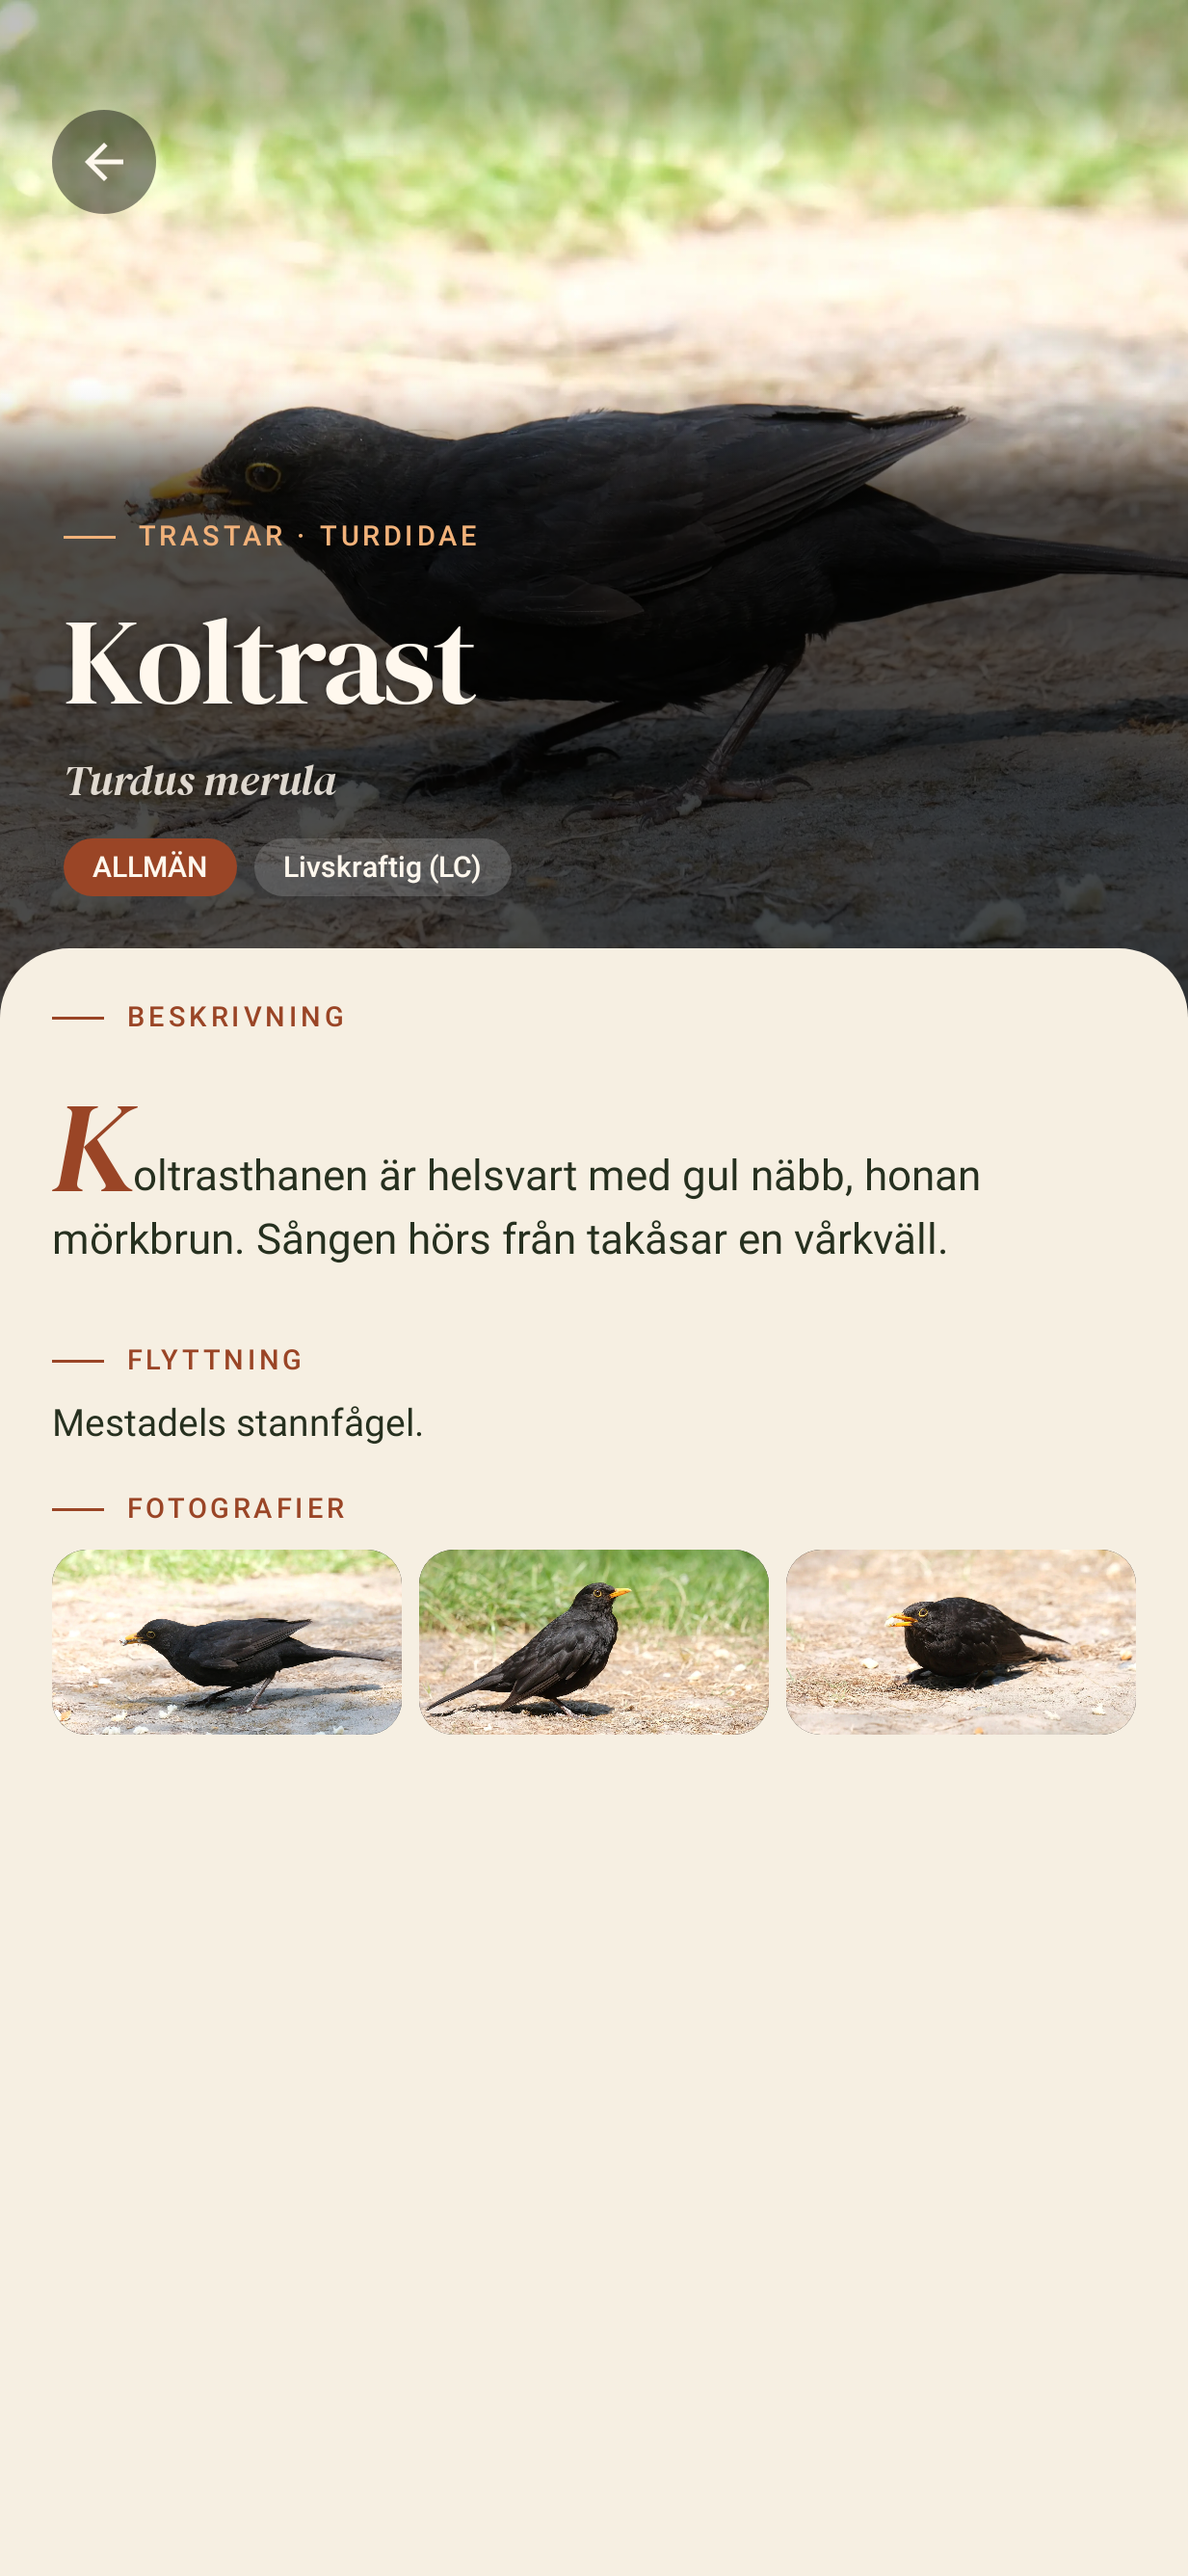
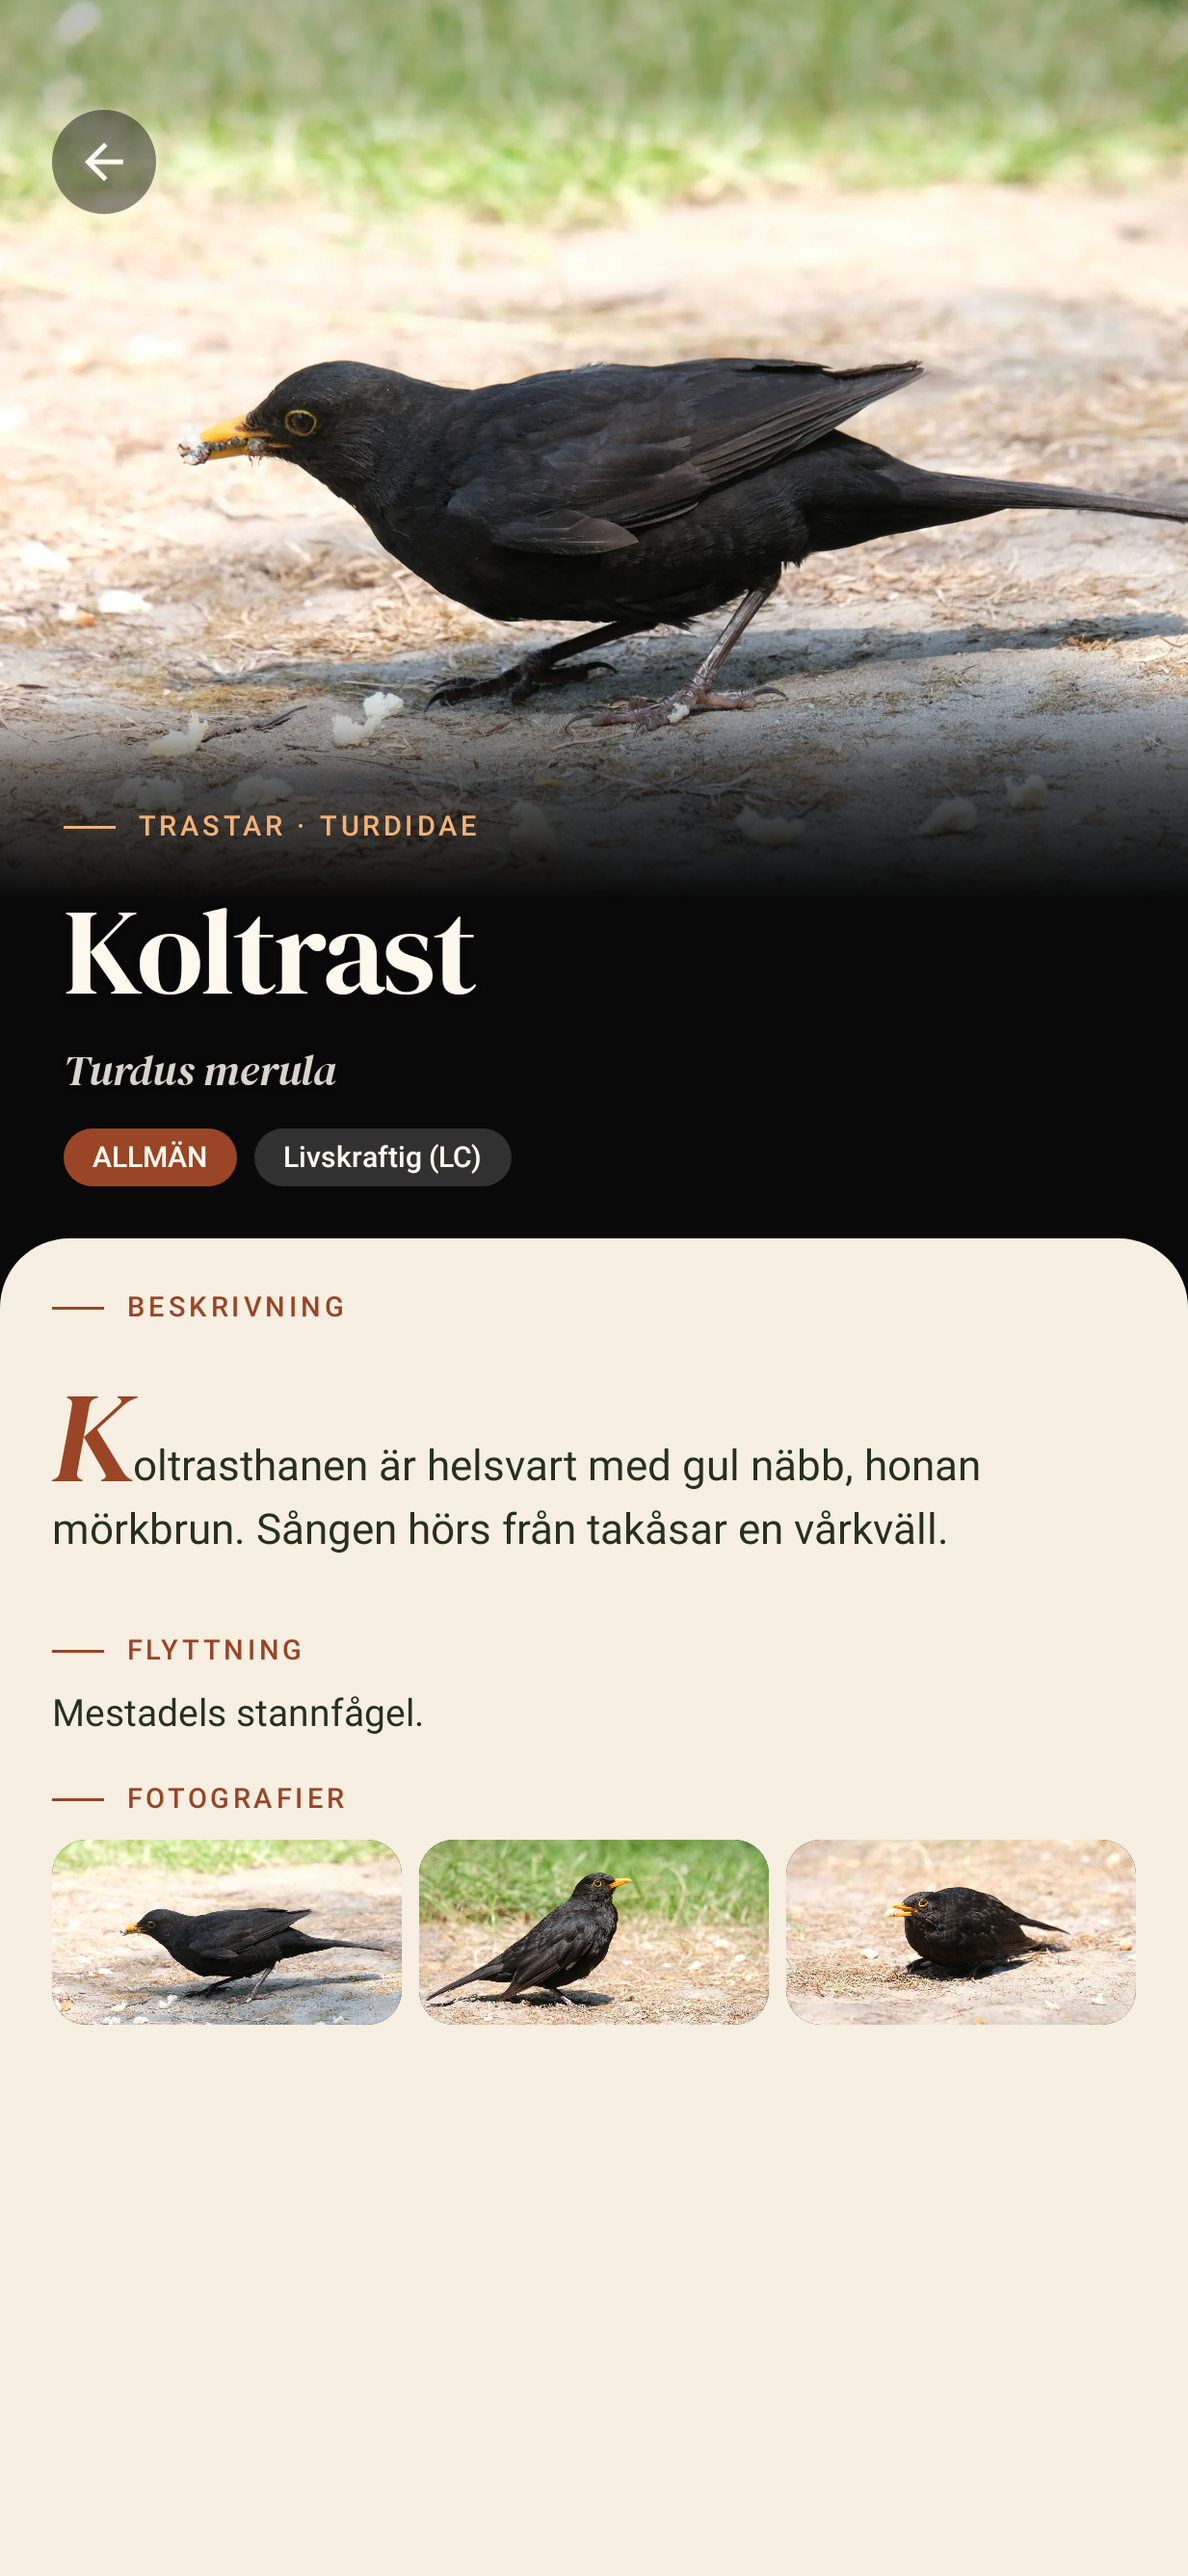
fix(ui): på Match och artprofilen står namnet under fågeln, inte över den
Granskningen av ca0a2741: textblocket täckte ~55 % av heron, så fågelns
kropp låg fortfarande under den svarta 0,70-scrimmen (rödhakens bröst
dämpat). Nytt opt-in i PhotoHero, textBelowPhoto: fotot behåller sin
höjd överst (plus statusraden) och textblocket börjar under det och
överlappar bara fotots nedersta TEXT_OVER_PHOTO = 32 dp, där fotot tonar
ut (maskas till genomskinligt, ingen färg läggs på) mot den neutrala
bakgrunden. Fågeln, oftast mitt i bilden, hamnar då aldrig under texten;
heron växer till foto + text. Utan foto ändras ingenting.

Artprofilen: fotot 280 dp (ett 3:2-foto är ~274 dp på 411 dp bredd),
var heron 320. Match: fotot 260 dp, var heron 340; 20 dp mindre så att
Spara-knappen ligger kvar högt på korta telefoner (mitten ~618 dp i
riggen, var ~553). Identifiera (Dagens fågel) är orörd. Typografin och
textscrimmen är oförändrade, så PhotoHeroContrastTest gäller som förut
(texten står antingen på fotot under scrimmen eller på den mörkare
bakgrunden). PhotoHeroLayoutTest (Robolectric, körs i grinden) visar att
fotot fyller hela heron som standard, att bara fotots 32 dp nedersta kant
ligger under texten med textBelowPhoto, och att flaggan inget gör utan foto.

diff --git a/composeApp/src/commonMain/kotlin/se/birdy/app/ui/components/PhotoHero.kt b/composeApp/src/commonMain/kotlin/se/birdy/app/ui/components/PhotoHero.kt
@@ -34,9 +34,12 @@ import androidx.compose.ui.draw.drawBehind
 import androidx.compose.ui.draw.drawWithCache
 import androidx.compose.ui.geometry.Offset
 import androidx.compose.ui.geometry.Size
+import androidx.compose.ui.graphics.BlendMode
 import androidx.compose.ui.graphics.Brush
 import androidx.compose.ui.graphics.Color
+import androidx.compose.ui.graphics.CompositingStrategy
 import androidx.compose.ui.graphics.Shadow
+import androidx.compose.ui.graphics.graphicsLayer
 import androidx.compose.ui.layout.boundsInRoot
 import androidx.compose.ui.layout.layout
 import androidx.compose.ui.layout.onGloballyPositioned
@@ -98,6 +101,12 @@ import se.birdy.app.ui.theme.rememberDmSerifDisplay
  * @param bottomPadding extra space under the text, e.g. for a [PaperSheet] overlapping it —
  *   when this hero is followed by one, use `PaperSheetOverlap + 18.dp` so the sheet's rounded
  *   top doesn't sit flush against the last line of text.
+ * @param textBelowPhoto false (default) = the photo fills the whole hero behind the text (the
+ *   Identify tab's daily bird). true (Match, species profile; 2026-10-06, Albin: the species
+ *   must be clearly visible) = the photo keeps [height] at the top (plus the status bar) and the
+ *   text block starts under it, overlapping only the photo's bottom [TEXT_OVER_PHOTO], where the
+ *   photo fades out into the neutral backdrop. The bird, usually in the middle of the frame, is
+ *   then never under the text; the hero grows to photo + text. No effect without a photo.
  * @param bottomContent extra content under the meta row, drawn over the same text-following
  *   scrim as the rest of the text block — it must be light-on-dark, like the rest of this
  *   header. A translucent LIGHT fill (e.g. a glass pill in `White.copy(alpha = 0.16f)`)
@@ -118,6 +127,7 @@ fun PhotoHero(
     height: Dp = 300.dp,
     bottomPadding: Dp = 18.dp,
     drawBehindStatusBar: Boolean = false,
+    textBelowPhoto: Boolean = false,
     image: (@Composable BoxScope.() -> Unit)? = null,
     topBar: (@Composable BoxScope.() -> Unit)? = null,
     bottomContent: (@Composable ColumnScope.() -> Unit)? = null,
@@ -125,19 +135,21 @@ fun PhotoHero(
     val serif = rememberDmSerifDisplay()
     val statusBarTop = WindowInsets.statusBars.asPaddingValues().calculateTopPadding()
     val statusBarTracking = rememberStatusBarTracking(enabled = drawBehindStatusBar)
+    // Behind the status bar the photo grows by its height, so the part below it keeps `height`.
+    val photoHeight = if (drawBehindStatusBar) height + statusBarTop else height
+    val photoAbove = textBelowPhoto && image != null
     Box(
         modifier =
             modifier
                 .fillMaxWidth()
-                // Behind the status bar the photo grows by its height, so the part below it keeps `height`.
-                .heightIn(min = if (drawBehindStatusBar) height + statusBarTop else height)
+                .heightIn(min = photoHeight)
                 .then(statusBarTracking)
                 .heroBackdrop(hasPhoto = image != null),
     ) {
         // A caller's image uses fillMaxSize(), which can't size this (possibly taller
-        // than `height`) Box by itself — matchParentSize() defers them until this Box's size is
-        // resolved from the Column below, then stretches them to match it.
-        Box(Modifier.matchParentSize()) {
+        // than `height`) Box by itself — matchParentSize() defers it until this Box's size is
+        // resolved from the Column below, then stretches it to match (see photoArea).
+        Box(photoArea(photoAbove, photoHeight)) {
             if (image != null) {
                 image()
                 if (drawBehindStatusBar) StatusBarScrim(statusBarTop)
@@ -147,6 +159,8 @@ fun PhotoHero(
             modifier =
                 Modifier
                     .align(Alignment.BottomStart)
+                    // Text below the photo: start where only the photo's faded edge is left.
+                    .padding(top = if (photoAbove) photoHeight - TEXT_OVER_PHOTO else 0.dp)
                     .fillMaxWidth()
                     .drawTextFollowingScrim(enabled = image != null) // before padding: see its KDoc.
                     .padding(start = 22.dp, end = 22.dp, bottom = bottomPadding),
@@ -248,6 +262,43 @@ internal const val TEXT_SCRIM_ALPHA = 0.70f
 private const val TEXT_SCRIM_FADE_STEPS = 8
 
 private fun smoothstep(t: Float): Float = t * t * (1 + 2 * (1 - t))
+
+// How much of the photo's bottom edge the text block may overlap when the text sits below the
+// photo (PhotoHero's textBelowPhoto), and how long the photo takes to fade out into the backdrop
+// there, so the photo has no hard bottom edge behind the kicker.
+internal val TEXT_OVER_PHOTO = 32.dp
+
+/**
+ * Where the photo is drawn: behind the whole hero, or (photoAbove) at the top in its own
+ * [height], fading out over its last [TEXT_OVER_PHOTO] into the backdrop. The fade only lowers
+ * the photo's own opacity, so what the text sits on there is the neutral backdrop, never a tint.
+ */
+private fun BoxScope.photoArea(
+    photoAbove: Boolean,
+    height: Dp,
+): Modifier =
+    if (photoAbove) {
+        Modifier.fillMaxWidth().height(height).fadeOutBottom(TEXT_OVER_PHOTO)
+    } else {
+        Modifier.matchParentSize()
+    }
+
+private fun Modifier.fadeOutBottom(fade: Dp): Modifier =
+    graphicsLayer { compositingStrategy = CompositingStrategy.Offscreen }
+        .drawWithCache {
+            val fadePx = fade.toPx()
+            val mask =
+                Brush.verticalGradient(
+                    0f to Color.Black,
+                    1f to Color.Transparent,
+                    startY = size.height - fadePx,
+                    endY = size.height,
+                )
+            onDrawWithContent {
+                drawContent()
+                drawRect(brush = mask, blendMode = BlendMode.DstIn)
+            }
+        }
 
 /**
  * What shows behind the photo: a neutral [PhotoLoading] gray while a photo loads (never a green

diff --git a/composeApp/src/androidUnitTest/kotlin/se/birdy/app/ui/components/PhotoHeroLayoutTest.kt b/composeApp/src/androidUnitTest/kotlin/se/birdy/app/ui/components/PhotoHeroLayoutTest.kt
@@ -1,0 +1,114 @@
+package se.birdy.app.ui.components
+
+import androidx.compose.foundation.layout.Box
+import androidx.compose.foundation.layout.Column
+import androidx.compose.foundation.layout.fillMaxSize
+import androidx.compose.runtime.Composable
+import androidx.compose.ui.Modifier
+import androidx.compose.ui.platform.testTag
+import androidx.compose.ui.test.getUnclippedBoundsInRoot
+import androidx.compose.ui.test.junit4.createComposeRule
+import androidx.compose.ui.test.onNodeWithTag
+import androidx.compose.ui.test.onNodeWithText
+import androidx.compose.ui.unit.Dp
+import androidx.compose.ui.unit.dp
+import org.junit.Before
+import org.junit.Rule
+import org.junit.Test
+import org.junit.runner.RunWith
+import org.robolectric.RobolectricTestRunner
+import org.robolectric.annotation.Config
+import se.birdy.app.testing.attachComposeResourcesContext
+import se.birdy.app.ui.theme.BirdyTheme
+import kotlin.math.abs
+import kotlin.test.assertTrue
+
+/**
+ * Where the photo sits relative to the text block in [PhotoHero] (2026-10-06, Albin: the species
+ * must be clearly visible). By default the photo fills the whole hero behind the text (the
+ * Identify tab's daily bird). With `textBelowPhoto` (Match, species profile) the photo keeps its
+ * own [PhotoHero] `height` at the top and the text block starts under it, overlapping only the
+ * photo's faded bottom [TEXT_OVER_PHOTO], so the bird in the middle of the frame is never under
+ * the text.
+ */
+@RunWith(RobolectricTestRunner::class)
+@Config(sdk = [35], qualifiers = "sv-w411dp-h891dp-xxhdpi")
+class PhotoHeroLayoutTest {
+    @get:Rule
+    val compose = createComposeRule()
+
+    @Before
+    fun setUp() {
+        attachComposeResourcesContext()
+    }
+
+    @Composable
+    private fun Hero(
+        tag: String,
+        kicker: String,
+        textBelowPhoto: Boolean,
+        withPhoto: Boolean,
+    ) = PhotoHero(
+        kicker = kicker,
+        title = "Talgoxe",
+        latinName = "Parus major",
+        height = 280.dp,
+        bottomPadding = PaperSheetOverlap + 18.dp,
+        textBelowPhoto = textBelowPhoto,
+        modifier = Modifier.testTag(tag),
+        image =
+            if (withPhoto) {
+                { Box(Modifier.fillMaxSize().testTag("$tag-photo")) }
+            } else {
+                null
+            },
+    )
+
+    private fun show(content: @Composable () -> Unit) {
+        compose.setContent { BirdyTheme { Column { content() } } }
+        compose.waitForIdle()
+    }
+
+    private fun assertClose(
+        expected: Dp,
+        actual: Dp,
+        what: String,
+    ) = assertTrue(abs((expected - actual).value) <= 1f, "$what: expected $expected, was $actual")
+
+    @Test
+    fun `by default the photo fills the whole hero behind the text`() {
+        show { Hero("hero", "Mesar", textBelowPhoto = false, withPhoto = true) }
+        val hero = compose.onNodeWithTag("hero").getUnclippedBoundsInRoot()
+        val photo = compose.onNodeWithTag("hero-photo").getUnclippedBoundsInRoot()
+        assertClose(hero.top, photo.top, "photo top")
+        assertClose(hero.bottom, photo.bottom, "photo bottom")
+    }
+
+    @Test
+    fun `with the text below the photo only the faded bottom edge of the photo is under the text`() {
+        show { Hero("hero", "Mesar", textBelowPhoto = true, withPhoto = true) }
+        val hero = compose.onNodeWithTag("hero").getUnclippedBoundsInRoot()
+        val photo = compose.onNodeWithTag("hero-photo").getUnclippedBoundsInRoot()
+        val kicker = compose.onNodeWithText("Mesar", ignoreCase = true).getUnclippedBoundsInRoot()
+        assertClose(280.dp, photo.bottom - photo.top, "photo height")
+        assertTrue(
+            kicker.top >= photo.bottom - TEXT_OVER_PHOTO - 1.dp,
+            "the text starts ${photo.bottom - kicker.top} above the photo's bottom, more than $TEXT_OVER_PHOTO",
+        )
+        assertTrue(hero.bottom > photo.bottom, "the text block should extend the hero below the photo")
+    }
+
+    @Test
+    fun `without a photo the text-below option changes nothing`() {
+        show {
+            Hero("plain", "Mesar", textBelowPhoto = false, withPhoto = false)
+            Hero("below", "Trastar", textBelowPhoto = true, withPhoto = false)
+        }
+        val plain = compose.onNodeWithTag("plain").getUnclippedBoundsInRoot()
+        val below = compose.onNodeWithTag("below").getUnclippedBoundsInRoot()
+        val kickerPlain = compose.onNodeWithText("Mesar", ignoreCase = true).getUnclippedBoundsInRoot()
+        val kickerBelow = compose.onNodeWithText("Trastar", ignoreCase = true).getUnclippedBoundsInRoot()
+        assertClose(plain.bottom - plain.top, below.bottom - below.top, "hero height")
+        assertClose(kickerPlain.top - plain.top, kickerBelow.top - below.top, "kicker offset in the hero")
+    }
+}

diff --git a/composeApp/src/commonMain/kotlin/se/birdy/app/ui/match/MatchView.kt b/composeApp/src/commonMain/kotlin/se/birdy/app/ui/match/MatchView.kt
@@ -164,9 +164,13 @@ internal fun MatchView(
                 kicker = stringResource(Res.string.match_eyebrow, state.stampNumber),
                 title = state.species.name,
                 latinName = state.species.scientificName,
-                height = 340.dp,
+                // The photo keeps the top 260dp and the name sits below it, so the whole bird
+                // is in view (2026-10-06). 20dp less than the species profile: the save button
+                // below is this screen's main action and should stay high on short phones.
+                height = 260.dp,
                 bottomPadding = PaperSheetOverlap + 18.dp,
                 drawBehindStatusBar = true,
+                textBelowPhoto = true,
                 image =
                     heroPath?.let { path ->
                         {

diff --git a/composeApp/src/commonMain/kotlin/se/birdy/app/ui/profile/SpeciesProfileScreen.kt b/composeApp/src/commonMain/kotlin/se/birdy/app/ui/profile/SpeciesProfileScreen.kt
@@ -139,9 +139,12 @@ private fun ProfileContent(
                 kicker = kicker,
                 title = species.name,
                 latinName = species.scientificName,
-                height = 320.dp,
+                // The photo keeps the top 280dp and the name sits below it, so the whole bird
+                // is in view (2026-10-06): a 3:2 photo is ~274dp tall on a 411dp-wide phone.
+                height = 280.dp,
                 bottomPadding = PaperSheetOverlap + 18.dp,
                 drawBehindStatusBar = true,
+                textBelowPhoto = true,
                 image =
                     heroImage?.let { img ->
                         {
